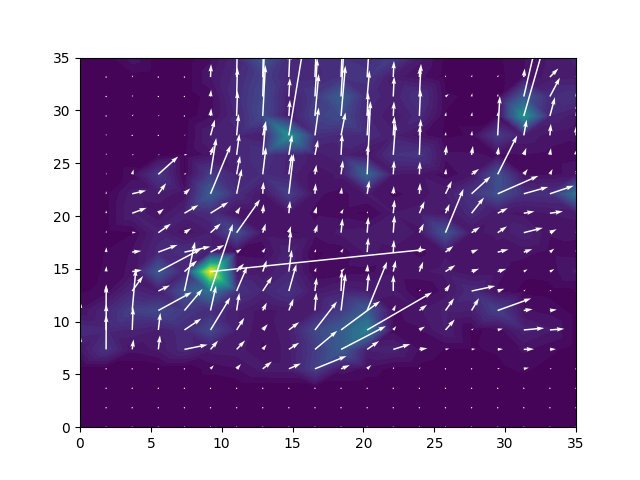
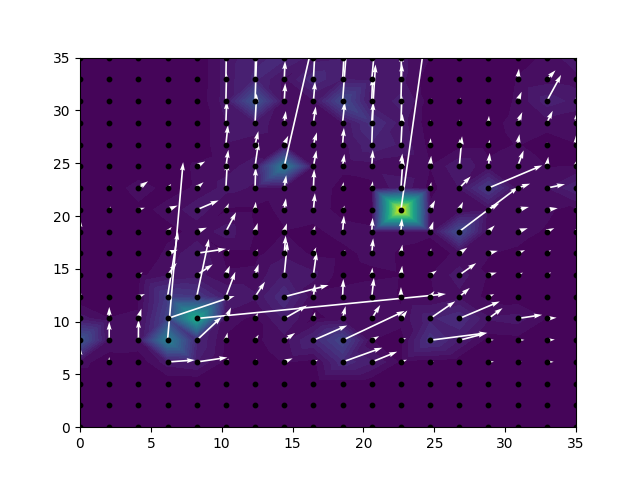
fixed adaptive sampling and gradient plots; still memeroy limited on GPU

diff --git a/11-2024-SeedAuNP/misc/01_get_phasemap_gradients.py b/11-2024-SeedAuNP/misc/01_get_phasemap_gradients.py
@@ -7,12 +7,15 @@ import pdb, argparse, json, glob, pickle
 
 device = torch.device("cuda" if torch.cuda.is_available() else "cpu")
 torch.set_default_dtype(torch.double)
-from torch.autograd import Variable
+from torch.profiler import profile, record_function, ProfilerActivity
+
 from activephasemap.models.np import NeuralProcess
 from activephasemap.simulators import UVVisExperiment
 from activephasemap.models.xgb import XGBoost
 from activephasemap.utils import *
 from funcshape.functions import Function
+import adaptive
+from scipy.spatial import Delaunay
 
 ITERATION = 14
 
@@ -43,7 +46,7 @@ def get_spectrum(c):
     # predict z value from the comp model
     z_mu, z_std = comp_model.predict(c)   
     nr, nb, dz = z_mu.shape
-    nz  = 32
+    nz  = 128
     z_dist = torch.distributions.Normal(z_mu, z_std)
     z = z_dist.rsample(torch.Size([nz])).view(nz*nr*nb, dz)
     t = torch.from_numpy(t_np).repeat(nz*nr*nb, 1, 1).to(device)
@@ -84,92 +87,88 @@ def compute_gradient(xt, f, norm):
     tangent_vectors = xt.squeeze()*df_dx
     grad, grad_norm = norm(yt, tangent_vectors.squeeze())
 
-    return tangent_vectors, grad, grad_norm
+    del yt, df_dx, tangent_vectors
+    torch.cuda.empty_cache()  # Clear the GPU cache
+
+    return grad, grad_norm
 
 def evaluate_batch_gradients(x, f):
     n_samples, dx = x.shape
-    batch_comps = torch.from_numpy(grid_comps).to(device).view(n_samples, 1, dx)
-    batch_spectra = f(batch_comps)
-    grad_norms = torch.zeros(n_samples)
-    tangent_vectors = torch.zeros((n_samples, len(t_np), dx))
-    grad = torch.zeros(n_samples, dx)
+    batch_comps = torch.from_numpy(x).to(device)
+    grad_norms, grad = [], []
     norm = lambda fx, tv : fisher_rao_norm(torch.from_numpy(t_np).to(device), fx, tv)
     for i in range(n_samples):
+        print("Computing gradient of %d/%d"%(i, n_samples), end="\r", flush=True)
         xi = batch_comps[i,...].view(1, 1, dx).clone().detach().requires_grad_(True)
-        tangent_vectors_xi, grads_xi, grad_norms_xi = compute_gradient(xi, f, norm)
-        grad_norms[i] = grad_norms_xi
-        tangent_vectors[i,...] = tangent_vectors_xi 
-        grad[i,...] = grads_xi
+        grads_xi, grad_norms_xi = compute_gradient(xi, f, norm)
+        grad_norms.append(grad_norms_xi)
+        grad.append(grads_xi)
     
-    return batch_spectra, grad_norms, tangent_vectors, grad
-
-def adaptive_sampling(p, points, refinement_threshold=0.8, max_iterations=4):
-    """
-    Refines the grid adaptively based on the density function p(x).
-    """
-    for _ in range(max_iterations):
-        # Evaluate p(x) on current points
-        p_values,_,_ = p(points)
-        high_density = points[p_values > refinement_threshold*max(p_values)]
-        
-        # Subdivide regions with high density
-        subdivided = []
-        for point in high_density:
-            step = (points[1,0] - points[0,0]) / 2  # Half the step size
-            new_points = [point + np.array([dx, dy]) * step 
-                          for dx in [-0.5, 0.5] for dy in [-0.5, 0.5]]
-            subdivided.extend(new_points)
-        
-        # Add new points and ensure uniqueness
-        points = np.vstack([points, subdivided])
-        points = np.unique(points, axis=0)
-    
-    return points
+    return torch.stack(grad_norms), torch.stack(grad)
 
 # compute values on a grid
-grid_comps = get_twod_grid(20, np.asarray(design_space_bounds).T)
-grid_spectra, grad_norms_grid, tangent_vectors_grid, grad_grid = evaluate_batch_gradients(grid_comps, get_spectrum)
+grid_comps = get_twod_grid(18, np.asarray(design_space_bounds).T)
+grad_norms_grid, grad_grid = evaluate_batch_gradients(grid_comps, get_spectrum)
 
-print("grid data : ", grid_comps.shape, grid_spectra.shape)
-print("Gradient data : ", grad_norms_grid.shape, tangent_vectors_grid.shape, grad_grid.shape)
-
-# # perform adaptive sampling
-# grid_comps = adaptive_sampling(grad_norms_grid.detach().cpu().squeeze(),
-#                                grid_comps.cpu().squeeze()
-#                             )
-# n_samples, dx = grid_comps.shape
-# grid_comps = torch.from_numpy(grid_comps).to(device).view(n_samples, 1, dx)
-# grid_spectra = get_spectrum(grid_comps)
-# grad_norms_grid, tangent_vectors_grid, grad_grid = evaluate_grid_gradients(grid_comps, grid_spectra)
-# print("Gradient data : ", grad_norms_grid.shape, tangent_vectors_grid.shape, grad_grid.shape)
+print("grid data : ", grid_comps.shape)
+print("Grid Gradient data : ", grad_norms_grid.shape, grad_grid.shape)
 
 with torch.no_grad():
-    example_idx = np.random.randint(0, grid_comps.shape[0]-1)
-    plt.figure(figsize=(8, 6))
-    plt.plot(t_np, grid_spectra[example_idx,:].cpu().numpy(), color="k")
-    for dim, label in zip(range(2), ["x1", "x2"]):
-        plt.plot(t_np, tangent_vectors_grid[example_idx, :, dim ].cpu().numpy(), label=f"∂f/∂{label}")
-    plt.title(f"Gradients in L2 Space for Sample Point {grid_comps[example_idx, :]}")
-    plt.xlabel("t (Discretized L2 space)")
-    plt.ylabel("Gradient")
-    plt.legend()
-    plt.grid(alpha=0.3)
-
-    plt.savefig("plot_function_gradient.png")
-    plt.close()
-
     fig, ax = plt.subplots()
-    ax.tricontourf(grid_comps[...,0], 
-                   grid_comps[..., 1], 
+    ctr = ax.tricontourf(grid_comps[...,0], grid_comps[..., 1], 
                    grad_norms_grid.detach().cpu().squeeze(),
                    levels=50
                    )
-    ax.quiver(grid_comps[...,0], 
-              grid_comps[..., 1], 
+    plt.colorbar(ctr, label="Gradient Norm")
+    ax.quiver(grid_comps[...,0], grid_comps[..., 1], 
               grad_grid[:,0].detach().cpu().squeeze(), 
               grad_grid[:,1].detach().cpu().squeeze(),
               color="w"
               )
+    ax.scatter(grid_comps[...,0], grid_comps[..., 1], color="k", s=10)
 
     plt.savefig("gradients_quiver.png")
+    plt.close()
+
+"""Perform Adaptive Sampling of the PhaseMap gradients"""
+
+def phasemap_gradient(xy):
+    """A function to compute gradient at any given composition.
+
+    xy : a tuple corresponding to a 2D composition.
+    """
+    c1, c2 = xy
+    comp_np = np.array([c1, c2])
+    # for some reason only the following can track the gradient of x
+    # not directly creating the tensor using torch.tensor
+    comp_tensor = torch.from_numpy(comp_np).to(device).view(1, 1, 2)
+    x = comp_tensor.clone().detach().requires_grad_(True)
+
+    norm = lambda fx, tv : fisher_rao_norm(torch.from_numpy(t_np).to(device), fx, tv)
+    value,_ = compute_gradient(x, get_spectrum, norm)
+
+    return value.detach().cpu().squeeze().numpy()
+
+learner = adaptive.Learner2D(phasemap_gradient, design_space_bounds)
+adaptive.runner.simple(learner, goal=lambda l: l.npoints > 100)
+data = learner.data
+with torch.no_grad():
+    x, y = zip(*data.keys())
+    tri = Delaunay(np.column_stack((x, y)))
+
+    fig, ax = plt.subplots()
+    contour =  ax.tricontourf(grid_comps[...,0],
+                            grid_comps[..., 1], 
+                            grad_norms_grid.detach().cpu().squeeze(),
+                            levels=50
+                            )
+    plt.colorbar(contour, label="Gradient Norm")
+    ax.scatter(x, y, s=15, color="k")
+    for simplex in tri.simplices:
+        pts = tri.points[simplex]
+        ax.plot(pts[:, 0], pts[:, 1], 'k-')
+    ax.set_xlabel("x")
+    ax.set_ylabel("y")
+    plt.tight_layout()
+    plt.savefig("adaptive_sampling.png")
     plt.close()
